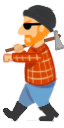
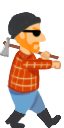
Rework BossEnemy

diff --git a/GreenBlood/src/br/com/greenblood/pieces/movable/EnemyBoss.java b/GreenBlood/src/br/com/greenblood/pieces/movable/EnemyBoss.java
@@ -1,16 +1,20 @@
 package br.com.greenblood.pieces.movable;
 
+import commons.awt.Listener;
+
 import android.graphics.Bitmap;
 import android.graphics.Rect;
 import br.com.greenblood.img.Sprite;
+import br.com.greenblood.pieces.TextObject;
 import br.com.greenblood.util.ImageLoader;
+import br.com.greenblood.world.GameWorld;
 
 public class EnemyBoss extends Enemy {
 	private final Sprite walkingSprite = new WalkingSprite();
 	private final Sprite punchingSprite = new PunchingSprite();
 	
     public EnemyBoss(Rect bounds, Rect boundingBounds) {
-        super(bounds, boundingBounds, 8, new WalkingSprite());
+        super(bounds, boundingBounds, 4, new WalkingSprite());
     }
     
     @Override
@@ -30,15 +34,16 @@ public class EnemyBoss extends Enemy {
 		return punchingSprite;
 	}
 	
-    private static final class WalkingSprite extends Sprite {
-        public WalkingSprite(){
-            super(new Bitmap[] { ImageLoader.image("boss/stick.png"), ImageLoader.image("boss/stick_1.png") }, 200, true);
+    private final static class WalkingSprite extends Sprite{
+        public WalkingSprite() {
+            super(new Bitmap[] { ImageLoader.image("boss/boss_1.png"), ImageLoader.image("boss/boss_3.png"), ImageLoader.image("boss/boss_4.png") },
+                    593, true);
         }
     }
     
-    private final class PunchingSprite extends Sprite{
+    private final static class PunchingSprite extends Sprite{
         public PunchingSprite() {
-            super(new Bitmap[] { ImageLoader.image("boss/stick_punch.png"), ImageLoader.image("boss/stick_punch_1.png"), ImageLoader.image("boss/stick_punch_2.png") },
+            super(new Bitmap[] { ImageLoader.image("boss/boss_1.png"), ImageLoader.image("boss/boss_3.png"), ImageLoader.image("boss/boss_4.png") },
                     593, false);
         }
     }
